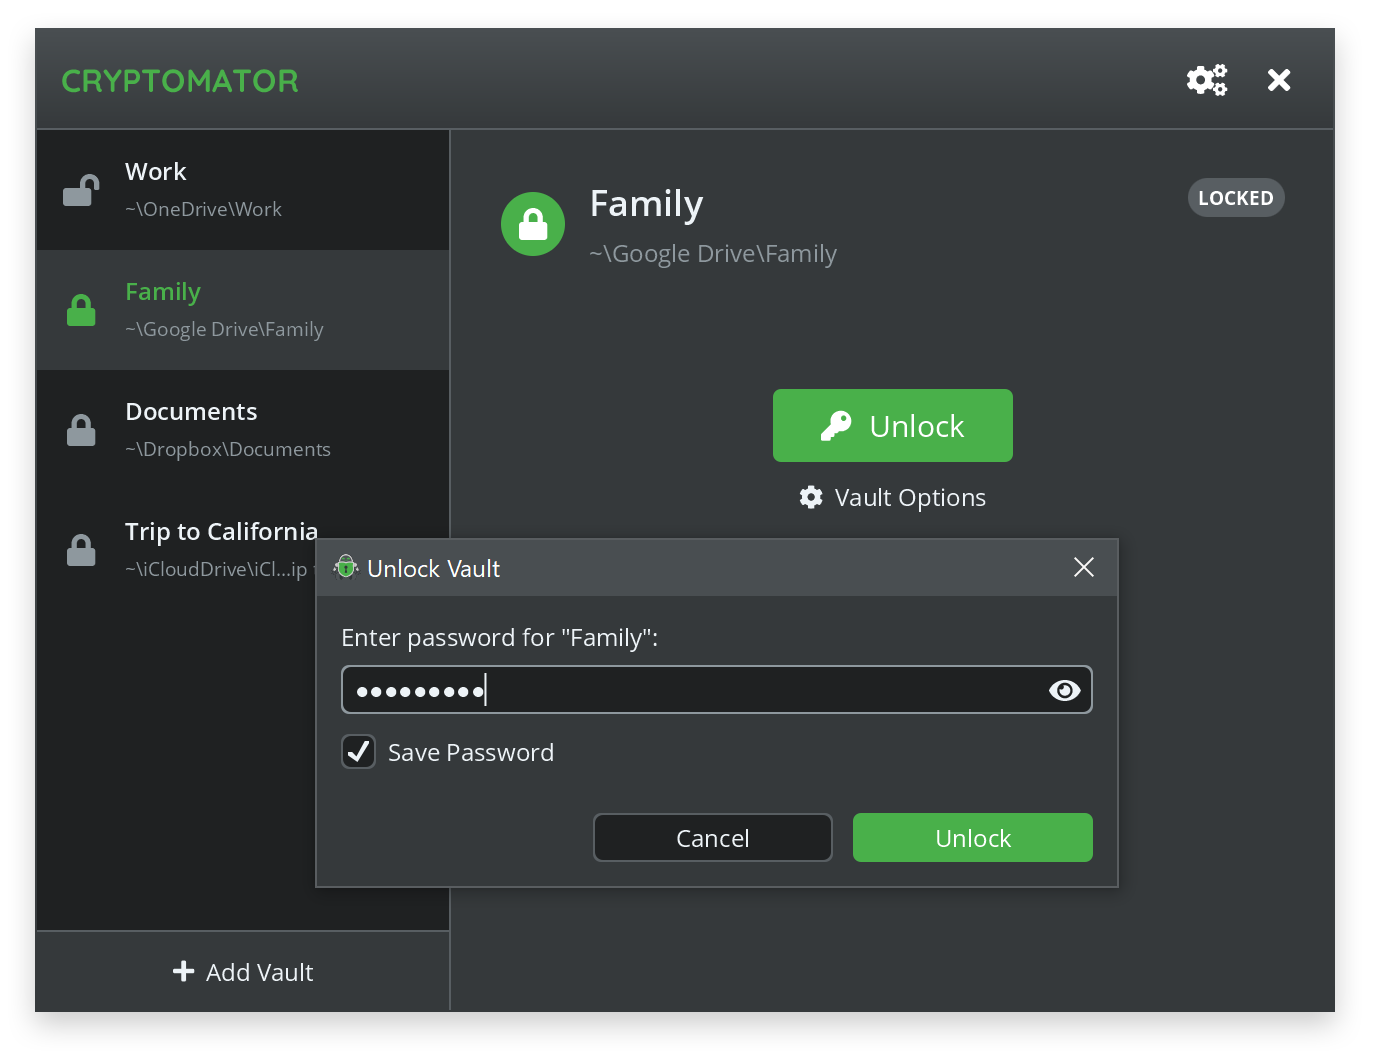
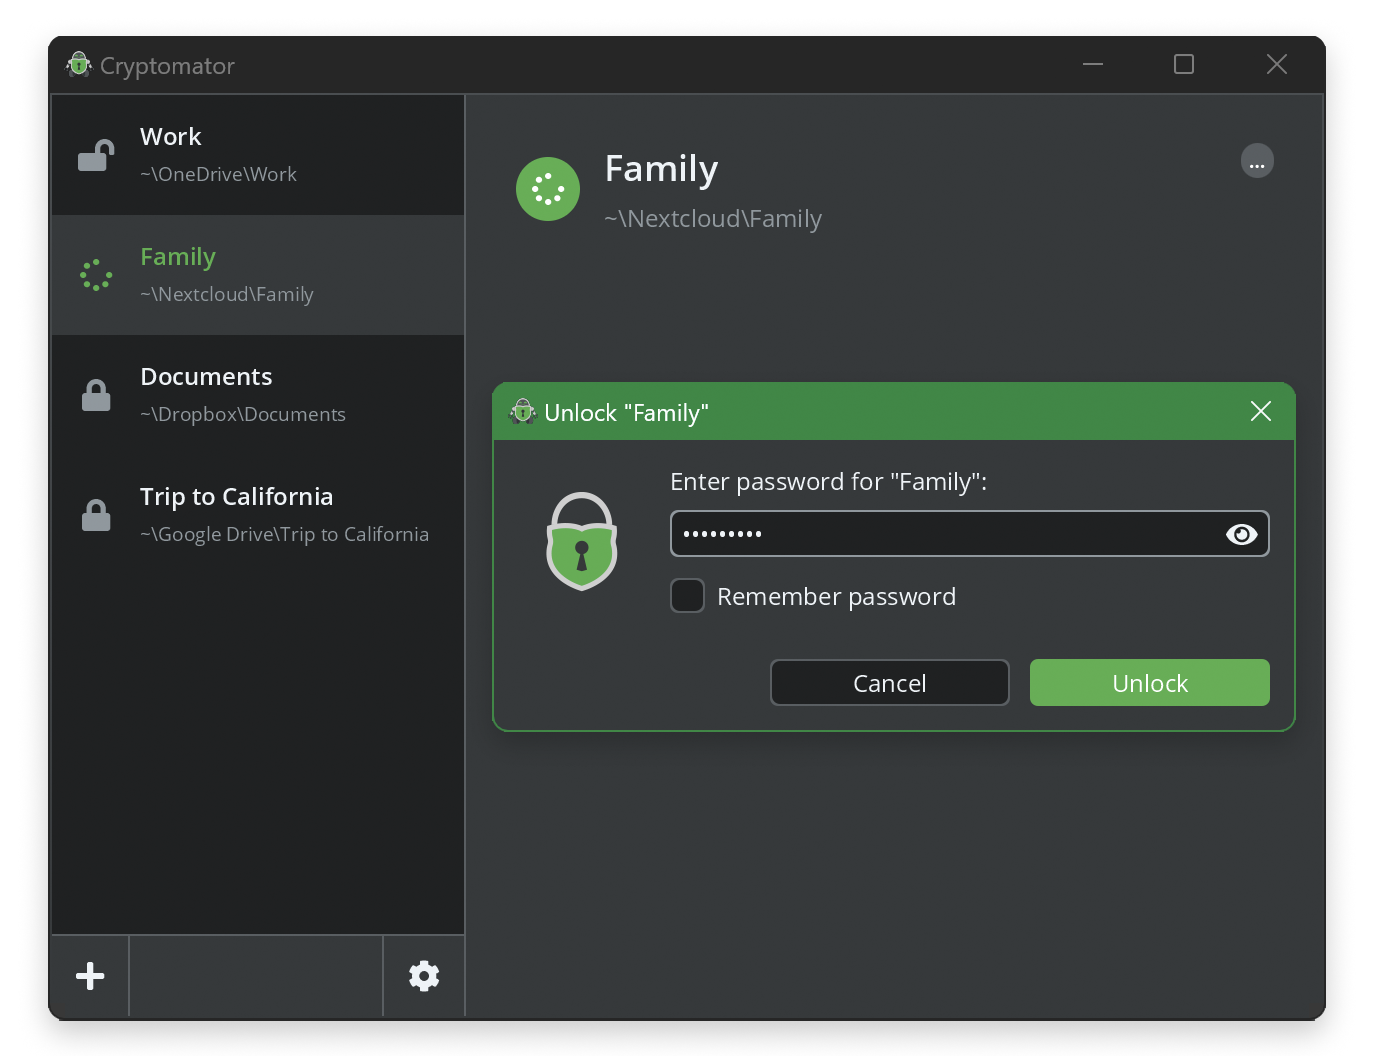
updated desktop screenshots in presskit

Changed region(s): [[0.0, 0.0, 0.9782, 0.9688], [0.4279, 0.75, 0.7948, 0.8438], [0.3974, 0.4688, 0.4585, 0.5625]]

diff --git a/content/presskit/06-screenshots.de.md b/content/presskit/06-screenshots.de.md
@@ -25,38 +25,26 @@ weight: 6
 <div class="flex flex-wrap -mx-3">
   <div class="w-full px-3 lg:w-1/2">
     <figure class="rounded shadow bg-white text-center p-2">
-      <a href="/presskit/mac-screenshot-1.png"><img class="inline-block m-remover lazyload" data-src="/presskit/mac-screenshot-1.png" alt="Hinzufügen eines Tresors"/></a>
-      <figcaption>Hinzufügen eines Tresors • 1374x1140 • PNG</figcaption>
-    </figure>
-  </div>
-  <div class="w-full px-3 lg:w-1/2">
-    <figure class="rounded shadow bg-white text-center p-2">
-      <a href="/presskit/mac-screenshot-2.png"><img class="inline-block m-remover lazyload" data-src="/presskit/mac-screenshot-2.png" alt="Hinzufügen eines Tresors (Dunkel-Modus)"/></a>
-      <figcaption>Hinzufügen eines Tresors (Dunkel-Modus) • 1374x1140 • PNG</figcaption>
-    </figure>
-  </div>
-  <div class="w-full px-3 lg:w-1/2">
-    <figure class="rounded shadow bg-white text-center p-2">
-      <a href="/presskit/mac-screenshot-3.png"><img class="inline-block m-remover lazyload" data-src="/presskit/mac-screenshot-3.png" alt="Entsperren des Tresors"/></a>
+      <a href="/presskit/mac-screenshot-1.png"><img class="inline-block m-remover lazyload" data-src="/presskit/mac-screenshot-1.png" alt="Entsperren des Tresors"/></a>
       <figcaption>Entsperren des Tresors • 1374x1056 • PNG</figcaption>
     </figure>
   </div>
   <div class="w-full px-3 lg:w-1/2">
     <figure class="rounded shadow bg-white text-center p-2">
-      <a href="/presskit/mac-screenshot-4.png"><img class="inline-block m-remover lazyload" data-src="/presskit/mac-screenshot-4.png" alt="Entsperren des Tresors (Dunkel-Modus)"/></a>
+      <a href="/presskit/mac-screenshot-2.png"><img class="inline-block m-remover lazyload" data-src="/presskit/mac-screenshot-2.png" alt="Entsperren des Tresors (Dunkel-Modus)"/></a>
       <figcaption>Entsperren des Tresors (Dunkel-Modus) • 1374x1056 • PNG</figcaption>
     </figure>
   </div>
   <div class="w-full px-3 lg:w-1/2">
     <figure class="rounded shadow bg-white text-center p-2">
-      <a href="/presskit/mac-screenshot-5.png"><img class="inline-block m-remover lazyload" data-src="/presskit/mac-screenshot-5.png" alt="Entschlüsselter Zugriff über das Tresor-Laufwerk"/></a>
-      <figcaption>Entschlüsselter Zugriff über das Tresor-Laufwerk • 1742x1154 • PNG</figcaption>
+      <a href="/presskit/mac-screenshot-3.png"><img class="inline-block m-remover lazyload" data-src="/presskit/mac-screenshot-3.png" alt="Entschlüsselter Zugriff über das Tresor-Laufwerk"/></a>
+      <figcaption>Entschlüsselter Zugriff über das Tresor-Laufwerk • 1992 × 1250 • PNG</figcaption>
     </figure>
   </div>
   <div class="w-full px-3 lg:w-1/2">
     <figure class="rounded shadow bg-white text-center p-2">
-      <a href="/presskit/mac-screenshot-6.png"><img class="inline-block m-remover lazyload" data-src="/presskit/mac-screenshot-6.png" alt="Verschlüsselte Dateien liegen im Zielort"/></a>
-      <figcaption>Verschlüsselte Dateien liegen im Zielort • 1742x1154 • PNG</figcaption>
+      <a href="/presskit/mac-screenshot-4.png"><img class="inline-block m-remover lazyload" data-src="/presskit/mac-screenshot-4.png" alt="Verschlüsselte Dateien liegen im Zielort"/></a>
+      <figcaption>Verschlüsselte Dateien liegen im Zielort • 1992 × 1250 • PNG</figcaption>
     </figure>
   </div>
 </div>

diff --git a/content/presskit/06-screenshots.en.md b/content/presskit/06-screenshots.en.md
@@ -25,38 +25,26 @@ weight: 6
 <div class="flex flex-wrap -mx-3">
   <div class="w-full px-3 lg:w-1/2">
     <figure class="rounded shadow bg-white text-center p-2">
-      <a href="/presskit/mac-screenshot-1.png"><img class="inline-block m-remover lazyload" data-src="/presskit/mac-screenshot-1.png" alt="Add vault"/></a>
-      <figcaption>Add vault • 1374x1140 • PNG</figcaption>
-    </figure>
-  </div>
-  <div class="w-full px-3 lg:w-1/2">
-    <figure class="rounded shadow bg-white text-center p-2">
-      <a href="/presskit/mac-screenshot-2.png"><img class="inline-block m-remover lazyload" data-src="/presskit/mac-screenshot-2.png" alt="Add vault (Dark Mode)"/></a>
-      <figcaption>Add vault (Dark Mode) • 1374x1140 • PNG</figcaption>
-    </figure>
-  </div>
-  <div class="w-full px-3 lg:w-1/2">
-    <figure class="rounded shadow bg-white text-center p-2">
-      <a href="/presskit/mac-screenshot-3.png"><img class="inline-block m-remover lazyload" data-src="/presskit/mac-screenshot-3.png" alt="Unlock vault"/></a>
+      <a href="/presskit/mac-screenshot-1.png"><img class="inline-block m-remover lazyload" data-src="/presskit/mac-screenshot-1.png" alt="Unlock vault"/></a>
       <figcaption>Unlock vault • 1374x1056 • PNG</figcaption>
     </figure>
   </div>
   <div class="w-full px-3 lg:w-1/2">
     <figure class="rounded shadow bg-white text-center p-2">
-      <a href="/presskit/mac-screenshot-4.png"><img class="inline-block m-remover lazyload" data-src="/presskit/mac-screenshot-4.png" alt="Unlock vault (Dark Mode)"/></a>
+      <a href="/presskit/mac-screenshot-2.png"><img class="inline-block m-remover lazyload" data-src="/presskit/mac-screenshot-2.png" alt="Unlock vault (Dark Mode)"/></a>
       <figcaption>Unlock vault (Dark Mode) • 1374x1056 • PNG</figcaption>
     </figure>
   </div>
   <div class="w-full px-3 lg:w-1/2">
     <figure class="rounded shadow bg-white text-center p-2">
-      <a href="/presskit/mac-screenshot-5.png"><img class="inline-block m-remover lazyload" data-src="/presskit/mac-screenshot-5.png" alt="Cleartext access via vault drive"/></a>
-      <figcaption>Cleartext access via vault drive • 1742x1154 • PNG</figcaption>
+      <a href="/presskit/mac-screenshot-3.png"><img class="inline-block m-remover lazyload" data-src="/presskit/mac-screenshot-3.png" alt="Cleartext access via vault drive"/></a>
+      <figcaption>Cleartext access via vault drive • 1992 × 1250 • PNG</figcaption>
     </figure>
   </div>
   <div class="w-full px-3 lg:w-1/2">
     <figure class="rounded shadow bg-white text-center p-2">
-      <a href="/presskit/mac-screenshot-6.png"><img class="inline-block m-remover lazyload" data-src="/presskit/mac-screenshot-6.png" alt="Encrypted files in target location"/></a>
-      <figcaption>Encrypted files in target location • 1742x1154 • PNG</figcaption>
+      <a href="/presskit/mac-screenshot-4.png"><img class="inline-block m-remover lazyload" data-src="/presskit/mac-screenshot-4.png" alt="Encrypted files in target location"/></a>
+      <figcaption>Encrypted files in target location • 1992 × 1250 • PNG</figcaption>
     </figure>
   </div>
 </div>
